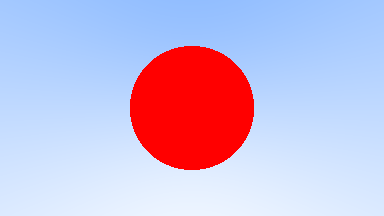
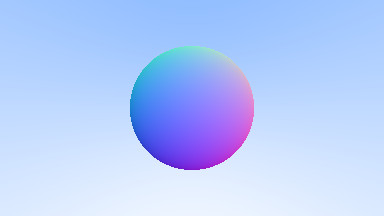
normal map

Changed region(s): [[0.3125, 0.1944, 0.6875, 0.8056]]

diff --git a/raytracing/render.go b/raytracing/render.go
@@ -4,6 +4,7 @@ import (
 	"fmt"
 	"image"
 	"image/png"
+	"math"
 	"os"
 	"sync"
 	"time"
@@ -22,8 +23,10 @@ func lerp(u Vec3, v Vec3, t float64) Vec3 {
 }
 
 func rayColor(ray Ray) Color {
-	if hitSPhoere(vec3(0, 0, -1), 0.5, ray) {
-		return vec3(1, 0, 0)
+	t := hitSphere(vec3(0, 0, -1), 0.5, ray)
+	if t > 0.0 {
+		n := unit(subVec3(ray.At(t), vec3(0, 0, -1)))
+		return mulVec3(vec3(n.x+1, n.y+1, n.z+1), 0.5)
 	} else {
 		unitDirection := unit(ray.direction)
 		t := 0.5 * (unitDirection.y + 1.0)
@@ -31,13 +34,17 @@ func rayColor(ray Ray) Color {
 	}
 }
 
-func hitSPhoere(center Point, radius float64, ray Ray) bool {
+func hitSphere(center Point, radius float64, ray Ray) float64 {
 	oc := subVec3(ray.origin, center)
 	a := dot(ray.direction, ray.direction)
 	b := 2.0 * dot(oc, ray.direction)
 	c := dot(oc, oc) - radius*radius
 	discriminant := b*b - 4*a*c
-	return discriminant > 0
+	if discriminant < 0 {
+		return -1
+	} else {
+		return (-b - math.Sqrt(discriminant)) / (2.0 * a)
+	}
 }
 
 type Pixel struct {
@@ -46,7 +53,7 @@ type Pixel struct {
 	color Color
 }
 
-func PathTrace(i int, j int, ch chan Pixel, waitGroup *sync.WaitGroup) {
+func pathTrace(i int, j int, ch chan Pixel, waitGroup *sync.WaitGroup) {
 	defer waitGroup.Done()
 
 	var origin = vec3(0, 0, 0)
@@ -75,7 +82,7 @@ func Render() {
 	for j := 0; j < imageHeight; j++ {
 		for i := 0; i < imageWidth; i++ {
 			waitGroup.Add(1)
-			go PathTrace(i, j, ch, &waitGroup)
+			go pathTrace(i, j, ch, &waitGroup)
 		}
 	}
 

diff --git a/raytracing/ray.go b/raytracing/ray.go
@@ -8,3 +8,7 @@ type Ray struct {
 func At(ray *Ray, t float64) Point {
 	return addVec3(ray.origin, mulVec3(ray.direction, t))
 }
+
+func (ray *Ray) At(t float64) Point {
+	return addVec3(ray.origin, mulVec3(ray.direction, t))
+}
